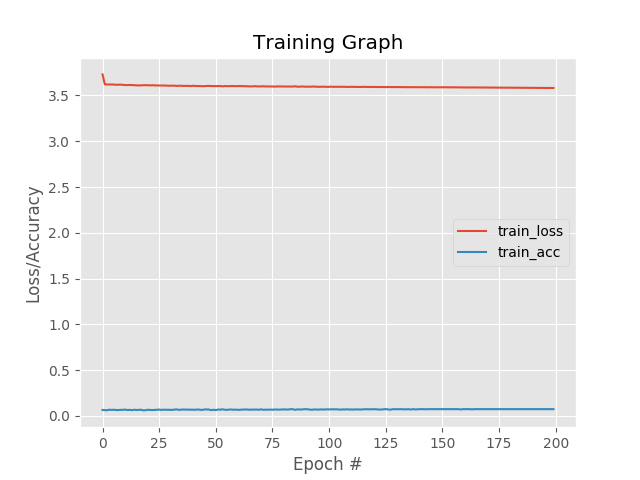
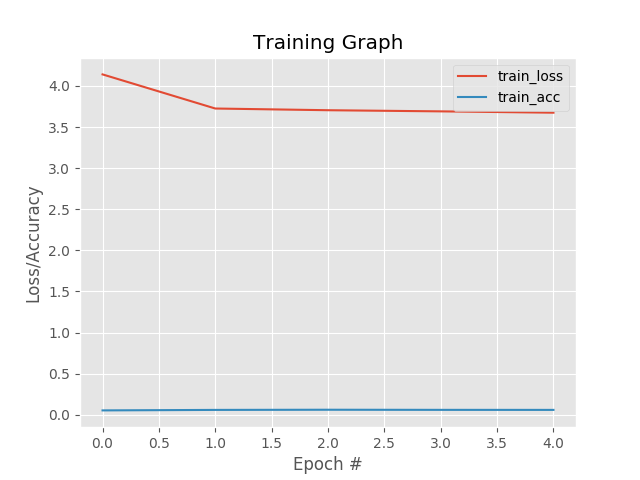
testing structure of code

diff --git a/MobileNet_Model.py b/MobileNet_Model.py
@@ -19,7 +19,7 @@ ap.add_argument('-g', '--gpus', type=int, default=1, help= '# of GPUs to use for
 args = vars(ap.parse_args())
 G = args["gpus"]
 
-NUM_EPOCHS = 100
+NUM_EPOCHS = 5
 INIT_LR= 0.1
 logfile = "evaluation_log_2.txt"
 graph_dir = "Graphs/"
@@ -62,7 +62,7 @@ le = preprocessing.LabelEncoder()
 while 1:
     filename = filename[:-4-len(str(counter-1))] + str(counter) + filename[-4:] 
     filename2 = filename2[:-4-len(str(counter-1))] + str(counter) + filename2[-4:] 
-    counter = counter + 1
+    
     if os.path.isfile(filename) == False:
         break
     with open(filename, "r") as file:
@@ -98,27 +98,13 @@ while 1:
     saved_model.save_keras_model(model,"Saved_Model_2")
 
     print("[INFO] Testing Model ...")
-    R = model.evaluate(x_test, y_test, verbose=1)
-    H = R.history
+    H = model.evaluate(x_test, y_test, verbose=1)
 	
     with open(logfile, 'a') as myfile:
-        myfile.write("batch number: " + str(counter) + '\n')
-        resultstr = ' '.join(str(x) for x in R)
-        myfile.write(resultstr + '\n')
-	
-    print("[INFO] Plotting testing loss and accuracy ...")
-    N= np.arange(0, len(H["loss"]))
-    plt.style.use('ggplot')
-    plt.figure()
-    plt.plot(N, H['loss'], label= 'test_loss')
-    plt.plot(N, H['acc'], label= 'test_acc')
-    plt.title("Testing Graph")
-    plt.xlabel('Epoch #')
-    plt.ylabel('Loss/Accuracy')
-    plt.legend()
-    plt.savefig(graph_dir + "testing" + str(counter))
-	
-    counter = counter + 1
+        myfile.write("batch number: " + str(counter) + '\n')     
+        myfile.write("loss: "+str(H[0]) + "accuracy: " + str(H[1])  + '\n')
+    
+    counter = counter + 1	
 
 
 
